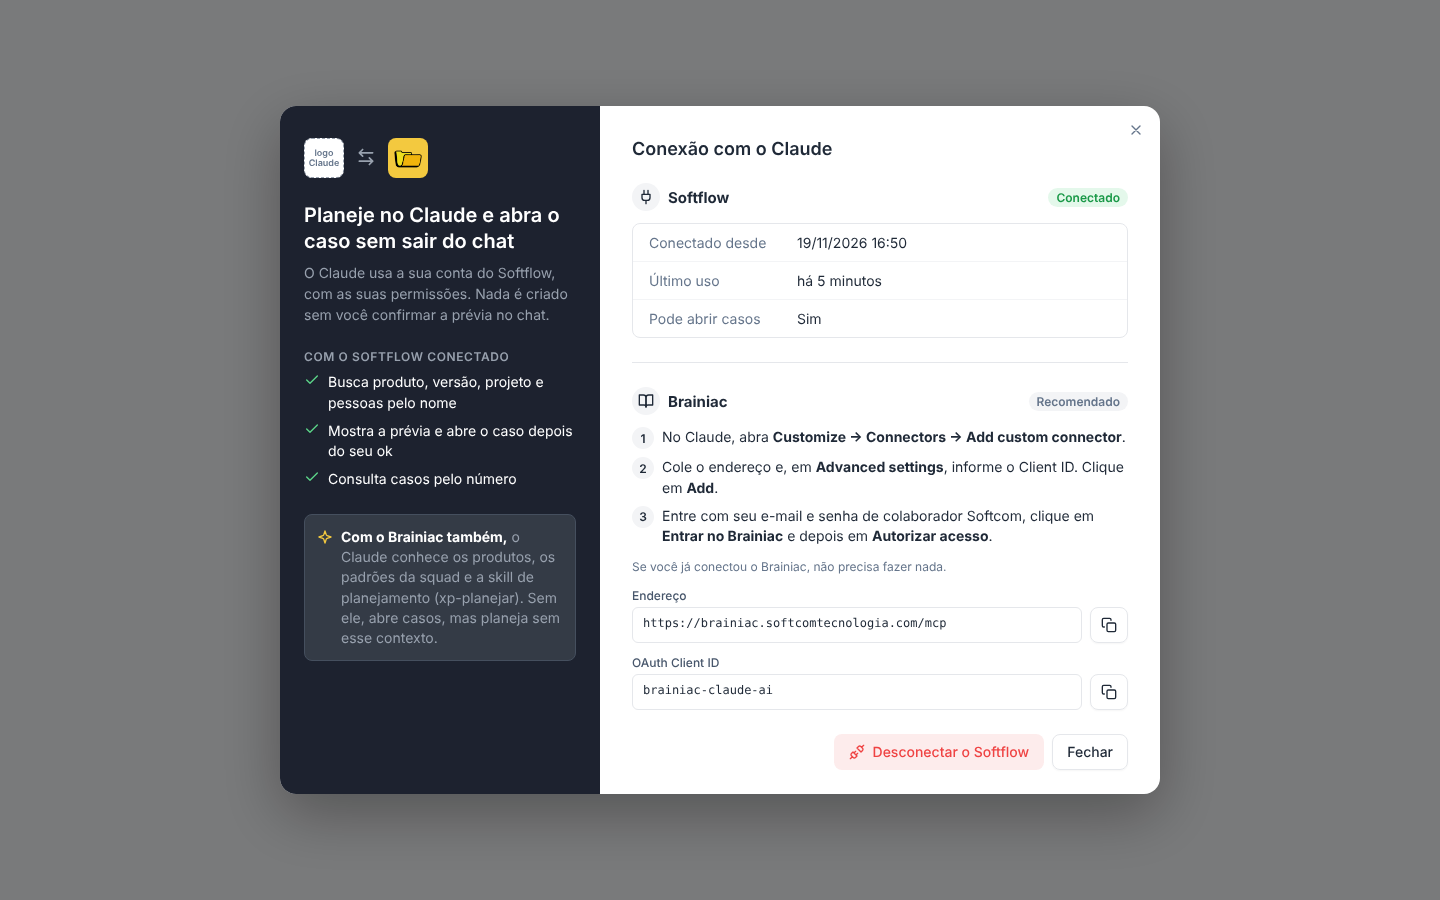
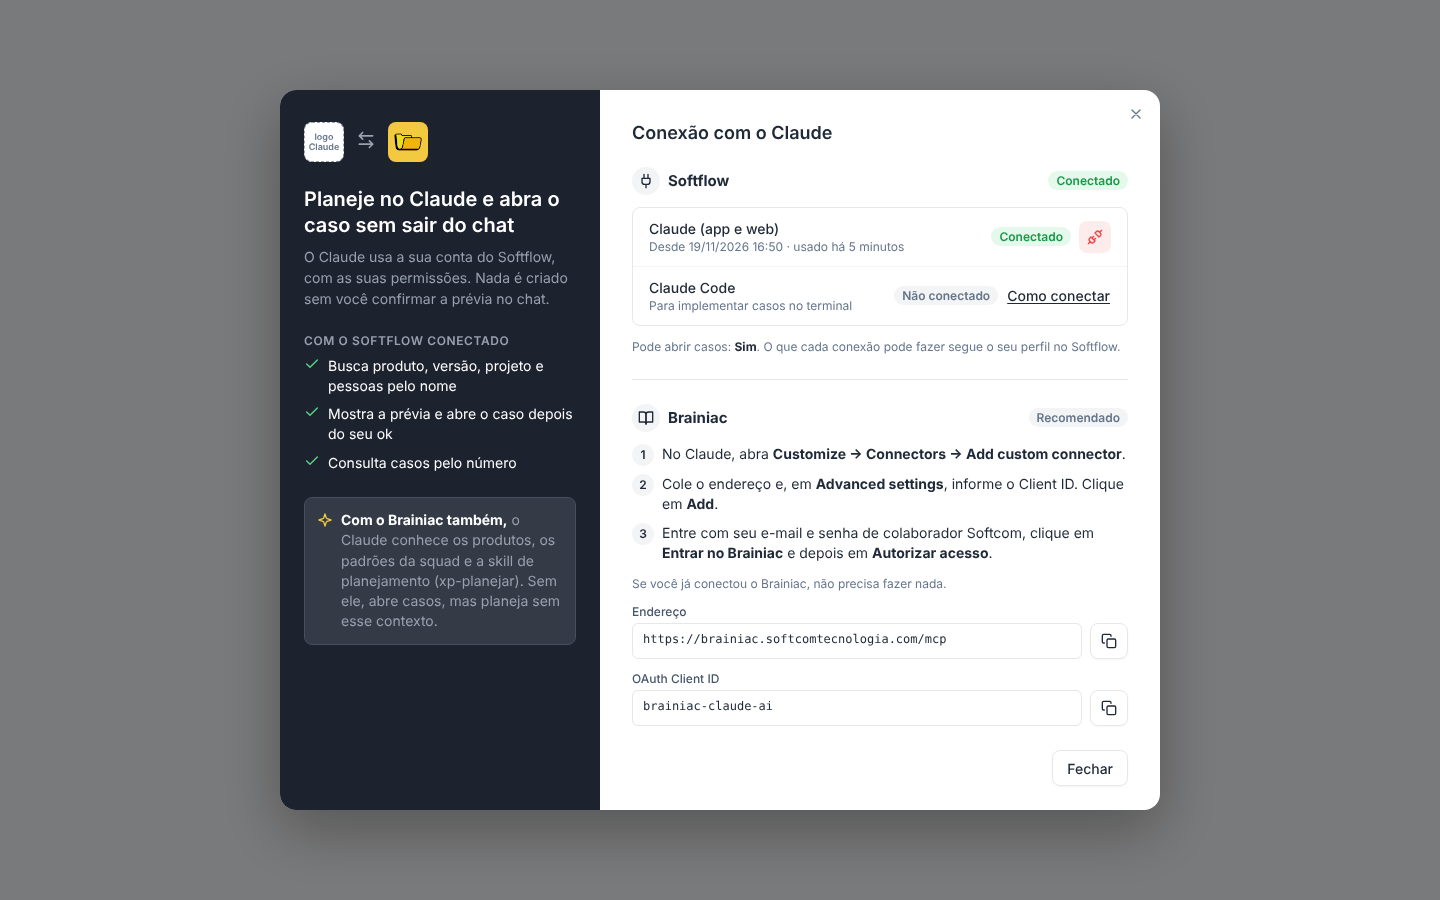
docs(conector-claude): próxima mudança — consulta completa do caso e Claude Code (decisões #22 a #25)
softflow_consultar_caso com textos, anotações, clientes, relações e
anexos; login aceita retorno loopback do Claude Code; uma conexão por
pessoa e por tipo de cliente; modal com seletor Claude/Claude Code e
lista de conexões. Protótipo e capturas 14 e 15.

Claude-Session: https://claude.ai/code/session_01GaQZ7CaVWoarm8kGJnLeJC

diff --git a/docs/conector-claude/prototipo/modal-duas-colunas.html b/docs/conector-claude/prototipo/modal-duas-colunas.html
@@ -9,7 +9,7 @@
   coluna clara à direita com as informações). Referência de estrutura; no código usar tokens
   (bg-primary e login-* na coluna esquerda; bg-card, text-text-*, border-border-* na direita).
   Logos (decisão #20): o quadro "logo Claude" é um marcador do arquivo oficial; o do Softflow é public/images/icon.png.
-  Uso: ?c=sem-conexao | conectado ; viewport < 768px mostra o layout empilhado.
+  Uso: ?c=sem-conexao | sem-conexao-code | conectado | conectado-dois (decisões #24 e #25); viewport < 768px mostra o layout empilhado.
 -->
 <style>
   :root{
@@ -49,7 +49,7 @@
   .main{padding:32px 32px 24px;display:flex;flex-direction:column;gap:24px;overflow:auto}
   .tt{display:flex;align-items:center;gap:8px;flex-wrap:wrap;padding-right:24px}
   .tt b{font-size:18px;font-weight:600}
-  .pill{display:inline-flex;align-items:center;border-radius:999px;padding:2px 8px;font-size:12px;font-weight:600}
+  .pill{display:inline-flex;align-items:center;border-radius:999px;padding:2px 8px;font-size:12px;font-weight:600;white-space:nowrap}
   .ok{background:var(--ok-bg);color:var(--ok)} .mut{background:var(--muted);color:var(--ts)}
   .sec{display:flex;flex-direction:column;gap:12px}
   .sec + .sec{padding-top:24px;border-top:1px solid var(--bi)}
@@ -74,6 +74,16 @@
   .b-out{border-color:var(--bi);box-shadow:0 1px 2px rgba(0,0,0,.04)}
   .b-ds{background:var(--destr-bg);color:var(--destr)}
   .hidden{display:none!important}
+  .seg{display:flex;gap:4px;background:var(--muted);border-radius:8px;padding:4px}
+  .seg span{flex:1;height:30px;border-radius:6px;display:flex;align-items:center;justify-content:center;font-weight:500;color:var(--ts);font-size:13px}
+  .seg span.on{background:var(--card);color:var(--tp);box-shadow:0 1px 2px rgba(0,0,0,.08)}
+  .cx{display:flex;align-items:center;gap:12px;padding:12px 16px}
+  .cx + .cx{border-top:1px solid var(--bd)}
+  .cx .nm{font-weight:500} .cx .sb{font-size:12px;color:var(--ts);margin-top:2px}
+  .cx .rt{margin-left:auto;display:flex;align-items:center;gap:8px}
+  .b-ico{width:32px;height:32px;padding:0;justify-content:center}
+  .b-ds-ico{background:var(--destr-bg);color:var(--destr)}
+  .b-link{height:auto;padding:0;text-decoration:underline;text-underline-offset:2px}
 
   @media (max-width:767px){
     .ov{padding:0;align-items:stretch}
@@ -127,22 +137,34 @@
       <!-- Softflow: sem conexão -->
       <div class="sec" id="sf-sem">
         <div class="sh"><span class="ic"><svg class="i"><use href="#plug"/></svg></span><b>Softflow</b><span class="pill mut">Não conectado</span></div>
-        <ol class="st">
-          <li><span class="n">1</span><span>No Claude, abra <b>Customize → Connectors → Add custom connector</b>.</span></li>
-          <li><span class="n">2</span><span>Cole o endereço abaixo e clique em <b>Add</b>.</span></li>
-          <li><span class="n">3</span><span>No Softflow, digite sua senha e clique em <b>Permitir acesso</b>.</span></li>
-        </ol>
-        <div class="fld"><div class="k">Endereço do conector</div><div class="copy"><code>https://softflow.hostsoftcom.cloud/api/mcp</code><button class="b b-out" aria-label="Copiar endereço do Softflow" style="padding:0 10px"><svg class="i"><use href="#copy"/></svg></button></div></div>
+        <div class="seg" role="tablist" aria-label="Onde você usa o Claude"><span role="tab" class="t-app on">Claude (app e web)</span><span role="tab" class="t-code">Claude Code</span></div>
+        <div class="p-app">
+          <ol class="st">
+            <li><span class="n">1</span><span>No Claude, abra <b>Customize → Connectors → Add custom connector</b>.</span></li>
+            <li><span class="n">2</span><span>Cole o endereço abaixo e clique em <b>Add</b>.</span></li>
+            <li><span class="n">3</span><span>No Softflow, digite sua senha e clique em <b>Permitir acesso</b>.</span></li>
+          </ol>
+          <div class="fld" style="margin-top:12px"><div class="k">Endereço do conector</div><div class="copy"><code>https://softflow.hostsoftcom.cloud/api/mcp</code><button class="b b-out" aria-label="Copiar endereço do Softflow" style="padding:0 10px"><svg class="i"><use href="#copy"/></svg></button></div></div>
+        </div>
+        <div class="p-code">
+          <ol class="st">
+            <li><span class="n">1</span><span>No terminal, rode o comando abaixo.</span></li>
+            <li><span class="n">2</span><span>No Claude Code, digite <b>/mcp</b>, escolha <b>softflow</b> e <b>Authenticate</b>.</span></li>
+            <li><span class="n">3</span><span>No Softflow, digite sua senha e clique em <b>Permitir acesso</b>.</span></li>
+          </ol>
+          <div class="fld" style="margin-top:12px"><div class="k">Comando</div><div class="copy"><code>claude mcp add --transport http softflow https://softflow.hostsoftcom.cloud/api/mcp</code><button class="b b-out" aria-label="Copiar comando do Claude Code" style="padding:0 10px"><svg class="i"><use href="#copy"/></svg></button></div></div>
+          <p class="note" style="margin-top:8px">Adicione <b>--scope user</b> para valer em todos os projetos.</p>
+        </div>
       </div>
 
-      <!-- Softflow: conectado -->
+      <!-- Softflow: conectado (uma conexão por tipo de cliente) -->
       <div class="sec hidden" id="sf-con">
         <div class="sh"><span class="ic"><svg class="i"><use href="#plug"/></svg></span><b>Softflow</b><span class="pill ok">Conectado</span></div>
         <div class="box">
-          <div class="row"><span>Conectado desde</span><span>19/11/2026 16:50</span></div>
-          <div class="row"><span>Último uso</span><span>há 5 minutos</span></div>
-          <div class="row"><span>Pode abrir casos</span><span>Sim</span></div>
+          <div class="cx"><div><div class="nm">Claude (app e web)</div><div class="sb">Desde 19/11/2026 16:50 · usado há 5 minutos</div></div><div class="rt"><span class="pill ok">Conectado</span><button class="b b-ico b-ds-ico" aria-label="Desconectar o Claude (app e web)"><svg class="i"><use href="#unplug"/></svg></button></div></div>
+          <div class="cx"><div><div class="nm">Claude Code</div><div class="sb c-code-sub">Para implementar casos no terminal</div></div><div class="rt"><span class="pill mut c-code-pill">Não conectado</span><button class="b b-link c-code-link">Como conectar</button></div></div>
         </div>
+        <p class="note">Pode abrir casos: <b style="color:var(--tp)">Sim</b>. O que cada conexão pode fazer segue o seu perfil no Softflow.</p>
       </div>
 
       <!-- Brainiac -->
@@ -162,8 +184,7 @@
       </div>
 
       <div class="ft">
-        <button class="b b-ds hidden" id="btn-desc"><svg class="i"><use href="#unplug"/></svg>Desconectar o Softflow</button>
-        <button class="b b-out">Fechar</button>
+                <button class="b b-out">Fechar</button>
       </div>
     </section>
   </div>
@@ -171,10 +192,18 @@
 
 <script>
   var c = new URLSearchParams(location.search).get('c') || 'sem-conexao';
-  var con = c === 'conectado';
+  var con = c.indexOf('conectado') === 0;
+  if (c === 'sem-conexao-code') {
+    document.querySelector('.t-app').classList.remove('on'); document.querySelector('.t-code').classList.add('on');
+    document.querySelector('.p-app').remove();
+  } else { var pc=document.querySelector('.p-code'); if (pc) pc.remove(); }
+  if (c === 'conectado-dois') {
+    document.querySelector('.c-code-sub').textContent = 'Desde 25/11/2026 11:40 · usado agora';
+    var p=document.querySelector('.c-code-pill'); p.textContent='Conectado'; p.className='pill ok';
+    var l=document.querySelector('.c-code-link'); l.outerHTML='<button class="b b-ico b-ds-ico" aria-label="Desconectar o Claude Code"><svg class="i"><use href="#unplug"/></svg></button>';
+  }
   document.getElementById(con ? 'sf-sem' : 'sf-con').remove();
   document.getElementById(con ? 'sf-con' : 'sf-sem').classList.remove('hidden');
-  document.getElementById('btn-desc').classList.toggle('hidden', !con);
   document.querySelectorAll(con ? '.brn-sem' : '.brn-con').forEach(function(e){ e.remove(); });
 </script>
 </body>

diff --git a/docs/conector-claude/README.md b/docs/conector-claude/README.md
@@ -8,6 +8,10 @@
 >
 > **Contexto do Brainiac** (2026-11-25, decisões #16 a #21): implementado e conferido na `dev`;
 > ainda não publicado. Ver "Brainiac" abaixo e as pendências.
+>
+> **Há uma [próxima mudança planejada](#próxima-mudança-planejada-consulta-completa-do-caso-e-claude-code)**
+> (2026-11-25, decisões #22 a #25): consulta do caso com textos, anotações, clientes, relações e
+> anexos, e conexão pelo Claude Code. Implementar com `/implementar conector-claude`.
 
 ## O que é
 
@@ -66,6 +70,130 @@ caminho (decisão #16):
 
 Se a `xp-planejar` ainda não estiver publicada no catálogo, a busca volta vazia e o Claude segue só
 com as regras do conector; nada a tratar no Softflow.
+
+## Próxima mudança planejada: consulta completa do caso e Claude Code
+
+> **Estado: planejado** (chat de planejamento, 2026-11-25). Decisões #22 a #25 em
+> [`decisoes.md`](decisoes.md); protótipo em
+> [`prototipo/modal-duas-colunas.html`](prototipo/modal-duas-colunas.html)
+> (`?c=sem-conexao-code` e `?c=conectado-dois`), capturas `12`, `14` e `15`.
+
+### Problema
+
+1. **A consulta não traz o que o dev precisa.** `softflow_consultar_caso` (`consultarCaso` em
+   `lib/conector-claude/mcp/caso.ts`) devolve só cabeçalho e resumo. Faltam a **descrição completa**
+   e os outros textos, as **anotações**, os **clientes** e as **relações** do caso, que a tela de edição
+   mostra nas abas. O `GET /projeto-memoria/{id}` que a consulta já chama devolve tudo isso em
+   `caso.textos`, `caso.anotacoes`, `caso.clientes` e `caso.relacoes` (`interfaces/projeto-memoria.ts`);
+   a consulta só não formata.
+2. **O Claude Code não consegue conectar.** A squad passou a usar o conector também com devs no
+   Claude Code. Ao entrar, ele responde *"This service doesn't accept sign-ins from Claude Code"*: o
+   Claude Code se registra (DCR) com `redirect_uri` `http://localhost:<porta>/callback`, e o
+   `register` e a autorização só aceitam os dois endereços do Claude na web (decisão #4,
+   `isRedirectUriPermitida` em `lib/conector-claude/config.ts`).
+3. **Uma conexão por pessoa derrubaria a outra.** Com a decisão #11, quem conecta o Claude Code
+   revoga a conexão do Claude no app (`motivo_revogacao = 'reconectou'`), e vice-versa.
+
+### O que muda
+
+1. **`softflow_consultar_caso` completo** (decisão #22). Mantém as linhas de hoje e acrescenta
+   seções em Markdown, nesta ordem, cada uma só se tiver conteúdo:
+   - `## Descrição` (`textos.descricao_completa`), `## Passos para reproduzir`
+     (`textos.passos_para_reproduzir`), `## Informações adicionais` (`textos.informacoes_adicionais`),
+     `## História` (`textos.historia`). Texto como veio do legado, convertendo `\r\n` em `\n`.
+   - `## Anotações (<n>)`: uma por item, da mais recente para a mais antiga,
+     `- <dd/MM/yyyy HH:mm> · <usuario>: <anotacoes>`. Acima de 30, mostra as 30 mais recentes e a linha
+     "+<n> anotações antigas no Softflow".
+   - `## Clientes (<n>)`: `- <cliente_nome ou "Cliente <cliente>"> (código <cliente>) · incidente
+     <incidente> · <dd/MM/yyyy>`.
+   - `## Relações (<n>)`: `- <tipo_relacao_nome> do caso <caso_relacionado>: <descricao_resumo>`
+     e o link do caso relacionado. Se `caso.relacoes` não vier no `projeto-memoria`, buscar em
+     `GET /projeto-casos-relacoes?registro=<id>` (a mesma rota da aba Relações).
+   - `## Anexos (<n>)`: nome, tamanho e data de cada anexo do caso, a partir de
+     `GET /api/db/casos/[registro]/anexos` (reaproveitar a função de `lib/` por trás dessa rota), com o
+     link de download assinado que ela já gera. Só com `list-case-attachment`; sem a permissão, a
+     seção diz "Seu perfil não permite ver os anexos". O link vence no mesmo prazo da tela; a seção
+     avisa isso numa linha.
+   - Parâmetro novo opcional `secoes` (lista de `descricao`, `anotacoes`, `clientes`, `relacoes`,
+     `anexos`; padrão: todas), para o Claude pedir só parte quando o caso for grande.
+   - A descrição da ferramenta passa a dizer que ela traz o caso completo e serve para implementar,
+     testar ou revisar.
+
+2. **Claude Code aceito no login** (decisão #24):
+   - `isRedirectUriPermitida` aceita, além dos dois endereços do Claude, endereços **loopback**
+     (RFC 8252): esquema `http`, host `localhost` ou `127.0.0.1`, **qualquer porta**, caminho exato
+     `/callback`, sem query nem fragmento. Comparação exata no resto (`http://localhost:53214/callback`
+     sim; `http://localhost.evil.com/callback`, `https://localhost/callback` ou
+     `http://localhost:53214/cb` não).
+   - No `register` e na autorização a regra é a mesma. PKCE S256 continua obrigatório (é o que
+     protege o loopback).
+   - A tela `/oauth/autorizar` mostra o nome do cliente: **Conectar o Claude Code ao Softflow**
+     quando o `redirect_uri` é loopback, e o título de hoje no resto. O passo de digitar a senha não
+     muda.
+   - `GET /.well-known/oauth-authorization-server` não muda (já anuncia DCR e PKCE).
+
+3. **Uma conexão ativa por pessoa e por tipo de cliente** (decisão #25), revoga a #11:
+   - coluna nova `tipo_cliente` em `claude_conexoes` (`'claude'` | `'claude-code'`), preenchida na
+     autorização a partir do `redirect_uri` (loopback = `claude-code`). Migração com default
+     `'claude'` para as conexões existentes;
+   - conectar de novo revoga só a conexão ativa **do mesmo tipo** (`motivo_revogacao =
+     'reconectou'`);
+   - `GET /api/db/claude-conexao` passa a devolver `conexoes: [{ tipo, conectadoEm, ultimoUsoEm }]`
+     (e o `podeAbrirCaso` geral); `DELETE` ganha `?tipo=` para desconectar uma só (sem `tipo`,
+     todas, como hoje).
+
+4. **Modal "Conexão com o Claude"** (decisão #25; capturas `12`, `14` e `15`):
+   - **Sem conexão:** acima dos passos do Softflow, um seletor segmentado **Claude (app e web)** |
+     **Claude Code** (abre em "Claude (app e web)"; lembra a última escolha em `localStorage`, com
+     try/catch). Na aba Claude Code:
+     1. "No terminal, rode o comando abaixo." com o campo **Comando**
+        `claude mcp add --transport http softflow <endereço do conector>` e copiar só com ícone;
+     2. "No Claude Code, digite **/mcp**, escolha **softflow** e **Authenticate**.";
+     3. "No Softflow, digite sua senha e clique em **Permitir acesso**.";
+     e a nota "Adicione **--scope user** para valer em todos os projetos."
+   - **Conectado:** o quadro de hoje vira uma lista com uma linha por tipo: **Claude (app e web)** e
+     **Claude Code**, cada uma com "Desde … · usado há …" (ou "Para implementar casos no terminal"
+     quando não conectada), a pílula Conectado/Não conectado e, à direita, o botão **Desconectar** só
+     com ícone (`Unplug`, mesmo estilo destrutivo) ou o link **Como conectar** (abre as instruções da
+     aba correspondente logo abaixo da linha). A linha "Pode abrir casos: Sim/Não" sai do quadro e
+     vira uma nota abaixo dele. O botão "Desconectar o Softflow" do rodapé sai.
+   - A pílula do título da seção Softflow fica "Conectado" se houver pelo menos uma conexão.
+   - Confirmação de desconectar: a de hoje, com o nome do cliente ("Desconectar o Claude Code?").
+   - A seção Brainiac não muda. O Brainiac hoje só aceita o Claude na web (`brainiac-claude-ai`,
+     callback do claude.ai); conectar o Brainiac no Claude Code é com a Squad IA, fora daqui.
+
+5. **Instruções do servidor** (`INSTRUCOES`): uma linha nova: "Para implementar, testar ou revisar
+   um caso, chame softflow_consultar_caso com o número antes de começar: ela traz descrição,
+   anotações, clientes, relações e anexos."
+
+### Fora do escopo
+
+- Escrever anotações, vincular clientes ou relações e mudar status pelo conector (decisão #2
+  continua; avaliar numa próxima, agora que o dev usa o conector).
+- Baixar o conteúdo dos anexos pelo MCP: a consulta só lista e dá o link assinado.
+- Conectar o Brainiac no Claude Code.
+
+### Perguntas em aberto
+
+1. **(dev)** O `GET /projeto-memoria/{id}` já traz `caso.relacoes` preenchido, ou só a rota
+   `/projeto-casos-relacoes` traz? Define se a consulta faz uma ou duas chamadas (Fase 0).
+2. **(dev)** Qual a validade do link assinado dos anexos (`presign` de download)? Se for curta
+   (minutos), a seção avisa "o link vence em <n> minutos; consulte de novo para gerar outro".
+
+### Plano de implementação
+
+Um commit por parte, na `dev`, escopo `(conector-claude)`:
+
+1. **Consulta completa:** formatação das seções, `secoes`, anexos com permissão, descrição da
+   ferramenta e linha nova nas `INSTRUCOES`. Conferir com o cliente MCP do SDK num caso com
+   anotações, clientes, relações e anexos, e num caso vazio.
+2. **Loopback e tipo de cliente:** `isRedirectUriPermitida`, coluna `tipo_cliente` e migração,
+   revogação por tipo, título da tela de autorização, `GET`/`DELETE` de `claude-conexao`. Conferir os
+   casos de `redirect_uri` aceitos e recusados (lista acima) e, de ponta a ponta, `claude mcp add` +
+   `/mcp` → Authenticate no Claude Code, sem derrubar a conexão do Claude no app.
+3. **Modal:** seletor Claude/Claude Code, lista de conexões, desconectar por tipo. Conferir desktop e
+   390px nos estados das capturas.
+4. Ao concluir: integrar esta seção ao README no formato padrão e mover o item no status.
 
 ## Arquitetura
 

diff --git a/docs/conector-claude/decisoes.md b/docs/conector-claude/decisoes.md
@@ -135,3 +135,32 @@ Claude, 2026-11-19, com protótipo em [`prototipo/`](prototipo/).
     modal com botão de copiar.** Complementa a decisão #18. **Por quê:** o Brainiac não usa o
     registro automático de clientes; quem adiciona o conector precisa informar `brainiac-claude-ai`
     em Advanced settings (informado pelo usuário em 2026-11-25), e o valor é de outro sistema.
+
+22. **`softflow_consultar_caso` devolve o caso completo: textos (descrição, passos, informações
+    adicionais, história), anotações, clientes, relações e anexos**, em seções Markdown, com o
+    parâmetro opcional `secoes` para pedir só parte. Anotações limitadas às 30 mais recentes.
+    **Por quê:** o conector passou a ser usado por devs no Claude Code para implementar o caso, e a
+    consulta só trazia o cabeçalho; o usuário notou que faltavam anotações, clientes e relações
+    (2026-11-25). Os dados já vêm no `GET /projeto-memoria/{id}`, então não há chamada nova ao legado
+    além de relações (se não vierem ali) e anexos.
+
+23. **Anexos aparecem na consulta como lista com link de download assinado, só para quem tem
+    `list-case-attachment`.** **Por quê:** o dev precisa ver prints e arquivos do caso para
+    implementar; a lista com link é o que a aba Anexos já faz, com a mesma permissão. Baixar o
+    conteúdo pelo MCP ficou de fora: o link basta e evita trafegar arquivos grandes pelo conector.
+    Decisão tomada no planejamento; o usuário pode tirar a seção sem afetar o resto.
+
+24. **O login aceita o Claude Code: além dos dois endereços do Claude na web, endereços loopback
+    `http://localhost:<porta>/callback` e `http://127.0.0.1:<porta>/callback`, qualquer porta.**
+    Revoga em parte a decisão #4 (só os endereços do Claude); o resto da #4 (comparação exata, nada
+    fora da lista) continua. **Por quê:** a squad está levando o conector para os devs, que usam o
+    Claude Code, e ele só faz login com retorno para a máquina local (2026-11-25). Loopback com PKCE
+    S256 é o padrão para aplicativos nativos (RFC 8252): o código só chega a quem está na máquina da
+    pessoa e só vale com o verificador do PKCE. A pessoa continua digitando a senha e confirmando na
+    tela de autorização, que passa a dizer "Claude Code".
+
+25. **Uma conexão ativa por pessoa e por tipo de cliente (Claude no app e na web, Claude Code), e o
+    modal lista as duas, cada uma com o próprio Desconectar.** Revoga a decisão #11. **Por quê:** o
+    mesmo dev usa o Claude no app para planejar e o Claude Code para implementar; com uma conexão
+    por pessoa, conectar um derrubaria o outro. O tipo sai do `redirect_uri` (loopback = Claude
+    Code), que é o que de fato diferencia os dois clientes.

diff --git a/docs/status-projeto-softflow.md b/docs/status-projeto-softflow.md
@@ -208,6 +208,11 @@ usuário):
 Especificação aprovada e ainda não implementada fica em `docs/<slug>/README.md` com **"Estado:
 planejado"** (ou com a seção "Próxima mudança planejada") e aparece aqui.
 
+- **Conector do Claude: consulta completa do caso e Claude Code** (planejado em 2026-11-25).
+  `softflow_consultar_caso` passa a trazer descrição e demais textos, anotações, clientes, relações
+  e anexos; o login aceita o Claude Code (retorno loopback) e cada pessoa pode ter uma conexão do
+  Claude no app e outra do Claude Code, listadas no modal. Ver "Próxima mudança planejada" em
+  [`conector-claude/`](conector-claude/README.md).
 - **Avisos: rascunhos e avisos enviados**: o botão "Salvar rascunho" ficou fora do envio de
   avisos até existir uma tela para ver e retomar rascunhos e enviados (decisão #13 de
   [`avisos/`](avisos/decisoes.md)).
